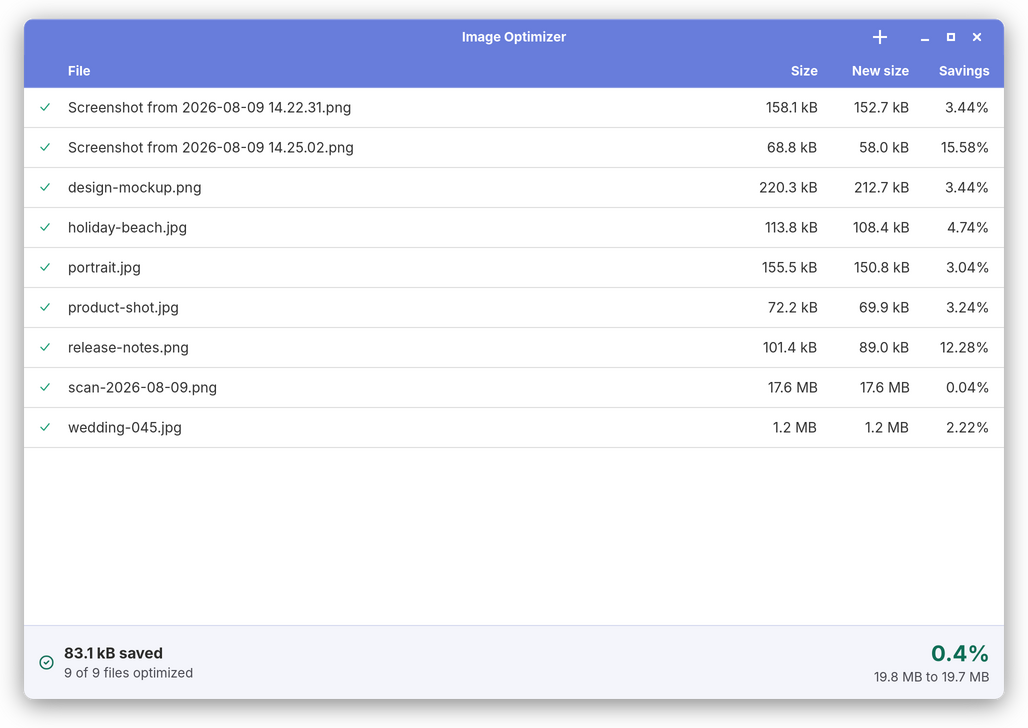
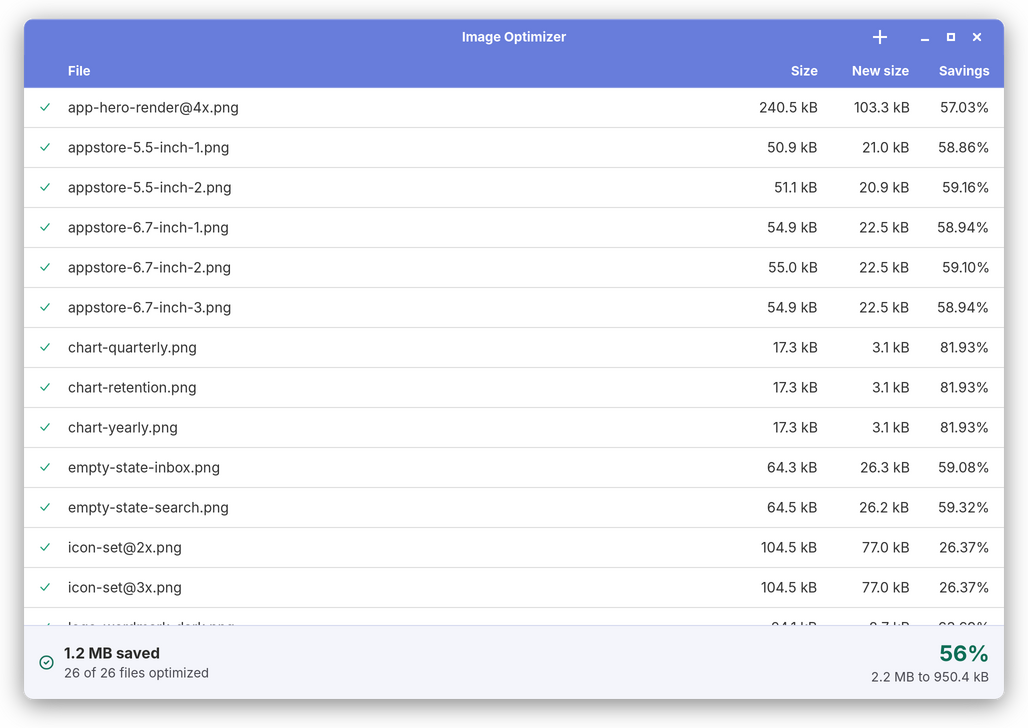
Show the saving in the listing screenshots
The list now adds the batch up, so the store images should lead with that. The
first screenshot, which is the one Flathub shows first and may reuse in banners,
is the finished list with "1.2 MB saved" and 56% under it. The one with the app
still working is second.

The batch behind those numbers is 26 exported assets: interface captures at
retina sizes, store screenshots, an icon sheet, three charts and the logos. That
is the kind of file lossless optimization pays off on most, which is also what the
app's own description says. Nothing is staged beyond choosing the files: the app
really ran on them and 2.2 MB really became 950.4 kB.

The generator is in .github/scripts, because a screenshot nobody can reproduce is
a screenshot nobody can check.

diff --git a/.github/scripts/listing-assets.py b/.github/scripts/listing-assets.py
@@ -1,0 +1,158 @@
+#!/usr/bin/env python3
+"""Bouwt exports zoals ze uit een ontwerpprogramma komen: veel vorm, weinig
+kleur, als 24 bits png weggeschreven. Via MVG, want de shell struikelde over het
+aanhalen van honderden draw opdrachten.
+
+Er wordt niets voorgekookt. De app doet straks het echte werk en de getallen in
+de opname zijn wat hij haalde; dit maakt alleen de bestanden.
+"""
+import os
+import shutil
+import subprocess
+
+W = "/tmp/assets"
+shutil.rmtree(W, ignore_errors=True)
+os.makedirs(W)
+
+
+def render(name, width, height, body, background="#ffffff"):
+    mvg = ["viewbox 0 0 %d %d" % (width, height),
+           "fill '%s'" % background,
+           "rectangle 0,0 %d,%d" % (width - 1, height - 1)]
+    mvg += body
+    path = "/tmp/draw.mvg"
+    open(path, "w").write("\n".join(mvg) + "\n")
+    subprocess.run(
+        ["convert", "-size", "%dx%d" % (width, height), "mvg:" + path,
+         "-define", "png:color-type=2", "-depth", "8",
+         "PNG24:" + os.path.join(W, name)],
+        check=True,
+    )
+
+
+def ui(name, w, h, accent):
+    """Zijbalk, koptekst en een tabel met veel rijen."""
+    b = ["fill '%s'" % accent, "rectangle 0,0 %d,140" % (w - 1),
+         "fill '#f4f5fb'", "rectangle 0,140 %d,%d" % (w // 5, h - 1)]
+
+    y = 200
+    while y < h - 80:
+        b += ["fill '#ffffff'",
+              "roundrectangle 40,%d %d,%d 10,10" % (y, w // 5 - 40, y + 52),
+              "fill '%s'" % accent,
+              "circle 72,%d 72,%d" % (y + 26, y + 8),
+              "fill '#dfe3f6'",
+              "roundrectangle 110,%d %d,%d 8,8" % (y + 18, w // 5 - 70, y + 34)]
+        y += 68
+
+    y = 220
+    while y < h - 60:
+        b += ["fill '#dfe3f6'",
+              "rectangle %d,%d %d,%d" % (w // 5 + 60, y + 40, w - 60, y + 41),
+              "fill '#2b2b30'",
+              "roundrectangle %d,%d %d,%d 6,6" % (w // 5 + 60, y + 14, w // 5 + 460, y + 30),
+              "fill '#74747e'",
+              "roundrectangle %d,%d %d,%d 6,6" % (w - 900, y + 14, w - 700, y + 30),
+              "roundrectangle %d,%d %d,%d 6,6" % (w - 620, y + 14, w - 420, y + 30),
+              "fill '#1D9E75'",
+              "roundrectangle %d,%d %d,%d 6,6" % (w - 340, y + 14, w - 200, y + 30)]
+        y += 52
+
+    render(name, w, h, b)
+
+
+def icon_set(name):
+    b = []
+    i = 0
+    for row in range(6):
+        for col in range(9):
+            x, y = col * 256 + 128, row * 256 + 128
+            shape = i % 4
+            if shape == 0:
+                b += ["fill '#687ddb'",
+                      "roundrectangle %d,%d %d,%d 32,32" % (x - 88, y - 88, x + 88, y + 88)]
+            elif shape == 1:
+                b += ["fill '#1D9E75'", "circle %d,%d %d,%d" % (x, y, x, y - 88)]
+            elif shape == 2:
+                b += ["fill '#A32D2D'",
+                      "roundrectangle %d,%d %d,%d 20,20" % (x - 88, y - 56, x + 88, y + 56)]
+            else:
+                b += ["fill '#2b2b30'",
+                      "polygon %d,%d %d,%d %d,%d" % (x, y - 88, x + 88, y + 88, x - 88, y + 88)]
+            b += ["fill '#ffffff'", "circle %d,%d %d,%d" % (x, y, x, y - 24)]
+            i += 1
+    render(name, 2304, 1536, b, background="#f4f5fb")
+
+
+def chart(name):
+    b = []
+    x = 200
+    for i in range(1, 25):
+        top = 200 + (i * 137) % 700
+        b += ["fill '#687ddb'", "rectangle %d,%d %d,1200" % (x, top, x + 90),
+              "fill '#dfe3f6'", "rectangle %d,%d %d,%d" % (x, top - 20, x + 90, top - 6)]
+        x += 120
+    b += ["fill '#2b2b30'", "rectangle 200,1200 3100,1206"]
+    render(name, 3200, 1400, b)
+
+
+def logo(name, background, mark):
+    b = ["fill '%s'" % mark, "roundrectangle 200,380 1000,620 40,40",
+         "fill '#687ddb'", "circle 1400,500 1400,260",
+         "fill '%s'" % mark, "roundrectangle 1700,430 2800,570 20,20"]
+    render(name, 3000, 1000, b, background=background)
+
+
+# Een map met exports zoals die er aan het eind van een release uitziet: een
+# stel opnames op retinamaat, een icoonblad, wat diagrammen en de logo's. De
+# maten verschillen per bestand, want dat doen ze in het echt ook.
+shots = [
+    # Groot en vroeg in het alfabet, zodat er in de opname ook een rij is die nog
+    # bezig is: de workers pakken de lijst in volgorde en deze duurt het langst.
+    ("app-hero-render@4x.png", 6144, 4096, "#687ddb"),
+    ("screenshot-dashboard@3x.png", 5120, 3200, "#687ddb"),
+    ("screenshot-reports@3x.png", 4992, 3120, "#687ddb"),
+    ("screenshot-inbox@3x.png", 4096, 3072, "#687ddb"),
+    ("screenshot-calendar@3x.png", 4160, 3008, "#687ddb"),
+    ("screenshot-settings@2x.png", 3072, 2304, "#5a6fd0"),
+    ("screenshot-profile@2x.png", 2944, 2208, "#5a6fd0"),
+    ("appstore-6.7-inch-1.png", 2778, 1284, "#687ddb"),
+    ("appstore-6.7-inch-2.png", 2778, 1284, "#5a6fd0"),
+    ("appstore-6.7-inch-3.png", 2778, 1284, "#687ddb"),
+    ("appstore-5.5-inch-1.png", 2208, 1242, "#687ddb"),
+    ("appstore-5.5-inch-2.png", 2208, 1242, "#5a6fd0"),
+    ("play-feature-graphic.png", 4096, 2304, "#687ddb"),
+    ("onboarding-1@2x.png", 2560, 1600, "#687ddb"),
+    ("onboarding-2@2x.png", 2560, 1600, "#5a6fd0"),
+    ("onboarding-3@2x.png", 2560, 1600, "#687ddb"),
+    ("empty-state-inbox.png", 2048, 1536, "#687ddb"),
+    ("empty-state-search.png", 2048, 1536, "#5a6fd0"),
+]
+for name, w, h, accent in shots:
+    ui(name, w, h, accent)
+
+icon_set("icon-set@3x.png")
+icon_set("icon-set@2x.png")
+chart("chart-quarterly.png")
+chart("chart-yearly.png")
+chart("chart-retention.png")
+logo("logo-wordmark.png", "#ffffff", "#2b2b30")
+logo("logo-wordmark-dark.png", "#16162e", "#ffffff")
+logo("social-card.png", "#f4f5fb", "#2b2b30")
+
+print("=== wat de app hier echt op haalt ===")
+total_before = total_after = 0
+for name in sorted(os.listdir(W)):
+    path = os.path.join(W, name)
+    before = os.path.getsize(path)
+    shutil.copy(path, "/tmp/probe.png")
+    subprocess.run(["optipng", "-o3", "-strip", "all", "-preserve", "-quiet", "/tmp/probe.png"])
+    after = os.path.getsize("/tmp/probe.png")
+    os.remove("/tmp/probe.png")
+    print("%-32s %9d -> %9d  %6.2f%%" % (name, before, after, (1 - after / before) * 100))
+    total_before += before
+    total_after += after
+
+print()
+print("totaal: %.2f MB -> %.2f MB, %.1f%% kleiner"
+      % (total_before / 1e6, total_after / 1e6, (1 - total_after / total_before) * 100))
